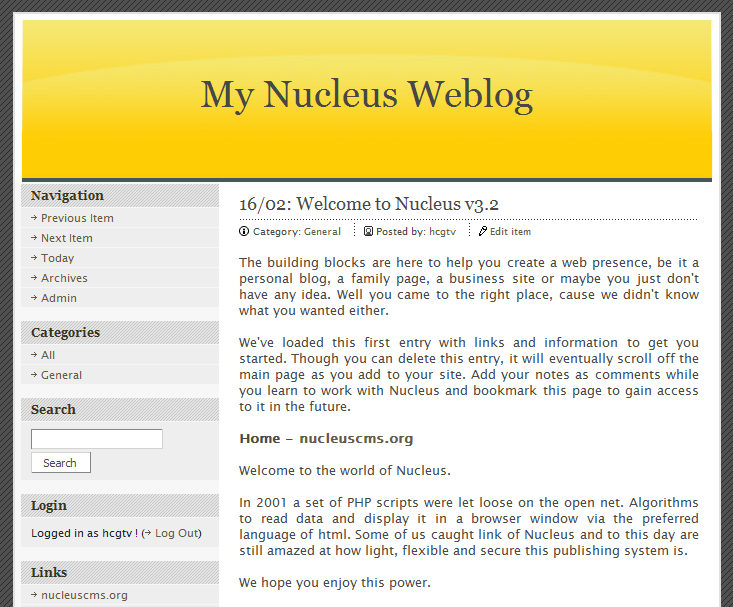
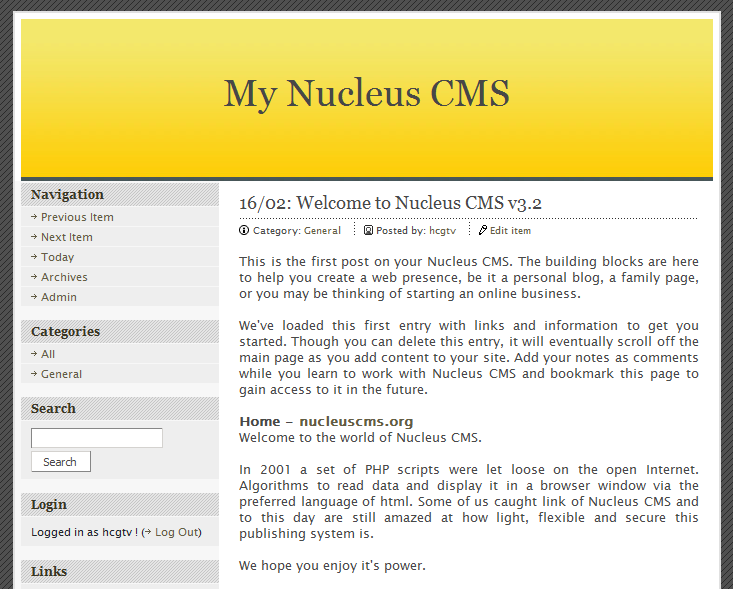
Updated skin/welcome post
git-svn-id: https://nucleuscms.svn.sourceforge.net/svnroot/nucleuscms/trunk/nucleus@667 dbb57b54-ea0f-0410-8215-9b63e7fa3c7b

diff --git a/skins/default/readme.html b/skins/default/readme.html
@@ -1,41 +1,41 @@
 <!DOCTYPE html PUBLIC "-//W3C//DTD XHTML 1.0 Strict//EN" "http://www.w3.org/TR/xhtml1/DTD/xhtml1-strict.dtd">
 <html xml:lang="en" xmlns="http://www.w3.org/1999/xhtml">
 <head>
-	<title>Nucleus 3.2 Default Skin</title>
+	<title>Nucleus CMS 3.2 - default skin</title>
 	<link rel="stylesheet" type="text/css" href="../../nucleus/styles/manual.css" />
 </head>
 <body>
-	<h1>Stanch - To stop the flow of tears</h1>
+	<h1>Nucleus CMS 3.2 - default skin</h1>
 
-	<p>Default Nucleus 3.2 skin based on the <a href="http://www.stanch.net/demo/">Stanch skin</a> contributed by <a href="http://www.stanch.net/">stanch</a> with assistance from <a href="http://roelg.nl/">roel</a>.</p>
+	<p>Default Nucleus CMS 3.2 skin based on the Stanch skin contributed by <a href="http://www.stanch.net/">Stanch</a> with assistance from <a href="http://roelg.nl/">roel</a>.</p>
 	
 	<p>Default skin's skin/templates/includes tweaked by <a href="http://nupusi.com/">hcgtv</a>, CSS color scheme by <a href="http://tipos.com.br.com/">moraes</a>.</p>
 	
 	<br />
 	<p>This skin has been tested on major modern browsers, such as Firefox 1.0, Internet Explorer 6.0, Opera 7.54 and Netscape 7.2. The skin is coded using valid XHTML 1.0 and valid CSS.</p>
 	
-	<p>If you want drop shadow effect for your images when you blog, you have to add 3 div's surrounding the image. Start with &lt;div class="wrap1"&gt;, followed by &lt;div class="wrap2"&gt;, and then &lt;div class="wrap3"&gt;. Remember to close them with &lt;/div&gt;&lt;/div&gt;&lt;/div&gt;. If you are still confused, click "View Source" to get what I mean. Of couse, you can choose not to use the drop shadow. Please note also that the drop shadow has float:left style applied to it.</p>
+	<p>If you want drop shadow effect for your images when you blog, you have to add 3 div's surrounding the image. Start with &lt;div class="wrap1"&gt;, followed by &lt;div class="wrap2"&gt;, and then &lt;div class="wrap3"&gt;. Remember to close them with &lt;/div&gt;&lt;/div&gt;&lt;/div&gt;. Please note also that the drop shadow has float:left style applied to it.</p>
 
 	<p>On the comments page, you will notice that the owner (Nucleus administrator) has a different kind of styling to his/her comments, as opposed to the comments made by visitors. This is made possible using CSS. I have included short comments in the CSS file, I'm sure it is easy to understand, in case you want to remove this styling or you want to add styling for different members.</p>
 	
 	<br />
 	<p>Default skin files:</p>
-	<p>default.css - default CSS code</p>
-	<p>/images - background, header, footer and misc images</p>
+	<p>default.css - default CSS code, controls colors and layout</p>
 	<p>skinbackup.xml - backup of default skin, can be reimported just in case</p>
+	<p>/images - background, header, footer and misc images</p>
 	
 	<br />
 	<p>This skin makes use of includes for skin abstraction:</p>
-	<p>head.inc - html header lines </p>
+	<p>head.inc - html header</p>
 	<p>header.inc - page header</p>
-	<p>menu.inc - menu column</p>
+	<p>menu.inc - page menu</p>
 	<p>footer.inc - page footer</p>
 	
 	<br />
 	<p>Extra files:</p>
-	<p>nicetitles.js - tooltips javascript code, copy to blog root directory</p>
-	<p>nicetitle.css - tooltips CSS code</p>
-	<p>favicon.ico - sample favorite icon, copy to blog root directory</p>
+	<p>nicetitles.js - tooltips javascript code, copy to site's root directory</p>
+	<p>nicetitle.css - tooltips CSS code, triggered by title="" attribute in links</p>
+	<p>favicon.ico - sample favorite icon, copy to site's root directory</p>
 	
 	<br />
 	<p>The <a href="http://wiki.gednet.com/NPSkinFiles">NP_SkinFiles plugin</a> is recommended for maintenance of includes.</a></p>
@@ -45,6 +45,7 @@
 	<p>Tooltips courtesy of <a href="http://neo.dzygn.com/code/nicetitles">NiceTitles</a></p>
 	
 	<br />
+	<h1>Nucleus CMS 3.2 - to stop the flow of tears</h1>
 	
 </body>
 </html>

diff --git a/skins/default/default.css b/skins/default/default.css
@@ -1,6 +1,6 @@
 /*-------------------------------------------------
   Nucleus CMS Stylesheet - bundled with version 3.2
-  Based on Stanch skin by Stanch
+  Based on the Stanch skin by Ivan Fong
   Mods by hcgtv and moraes
 -------------------------------------------------*/
 
@@ -98,7 +98,9 @@ a:hover, a:active
 	position: relative;
 	width: 704px;
 	height: 168px;
-	background: white url(images/header.jpg) no-repeat;
+	/* large header image is defined below */
+	/* background: white url(images/header.jpg) no-repeat; */
+	background: white;
 	border-width: 2px 2px 0;
 	border-style: solid;
 	border-color: #E0E0E0;
@@ -106,6 +108,12 @@ a:hover, a:active
 }
 #header h1
 {
+	/* small header image specific lines */
+	height: 168px;
+	width: 692px;
+	background: white url(images/header_sm.jpg) repeat-x 0 6px;
+	margin: 0 6px;
+	/* end small header image specific lines */
 	font-size: 38px;
 	text-align: center;
 	line-height: 160px;
